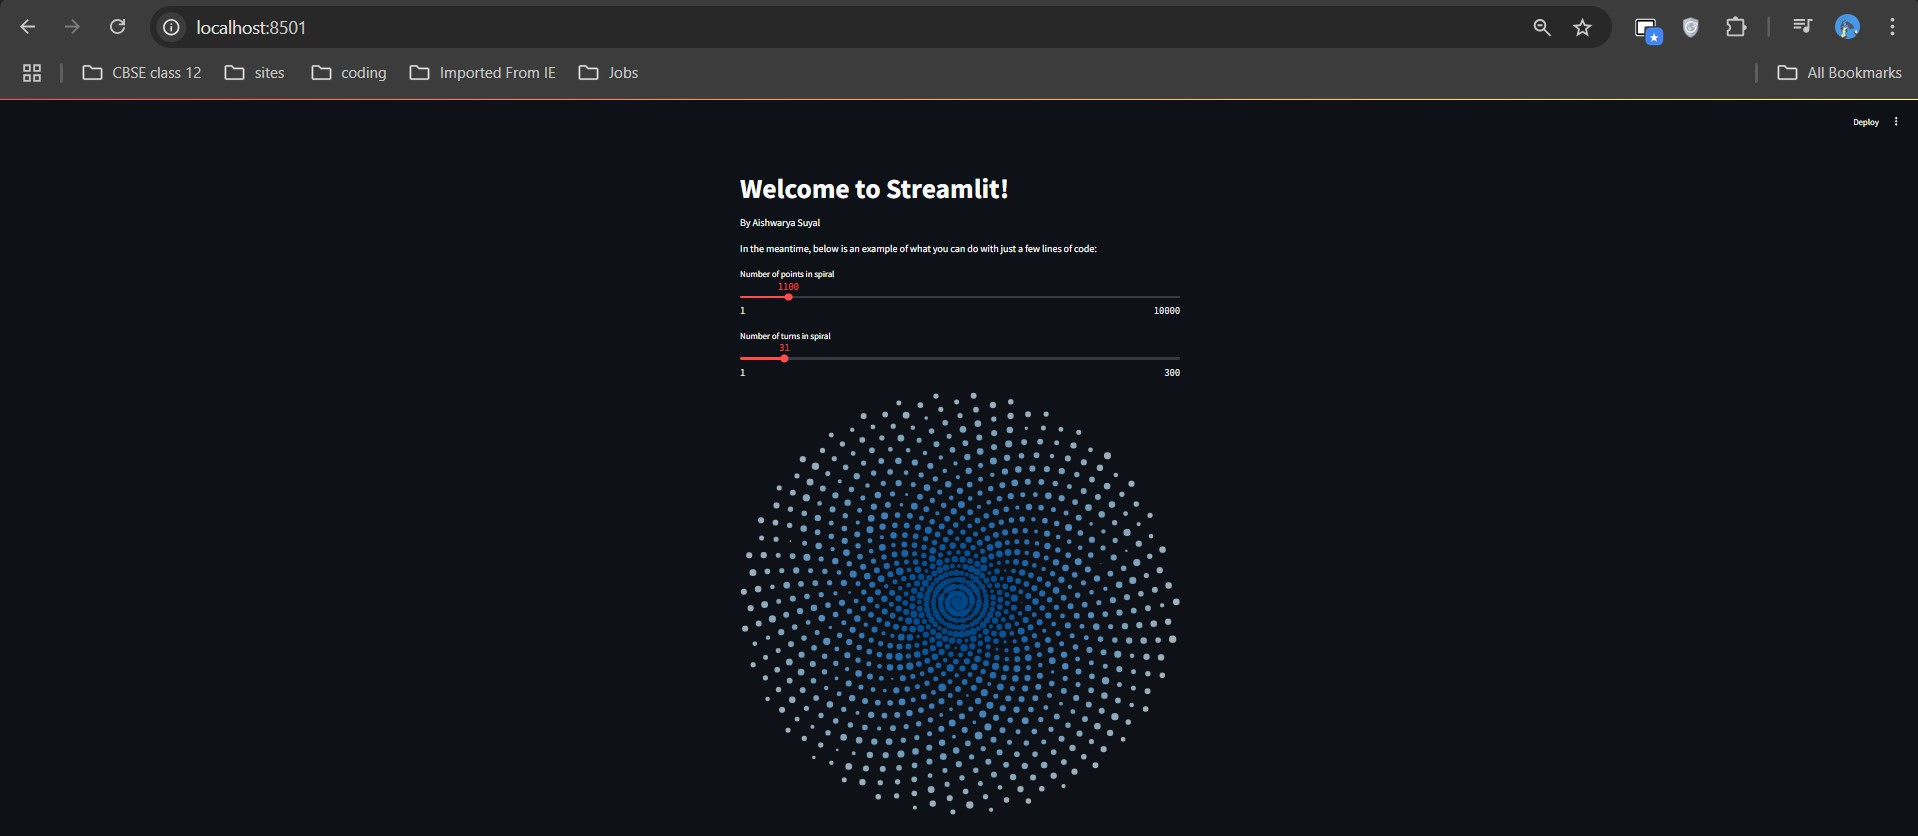
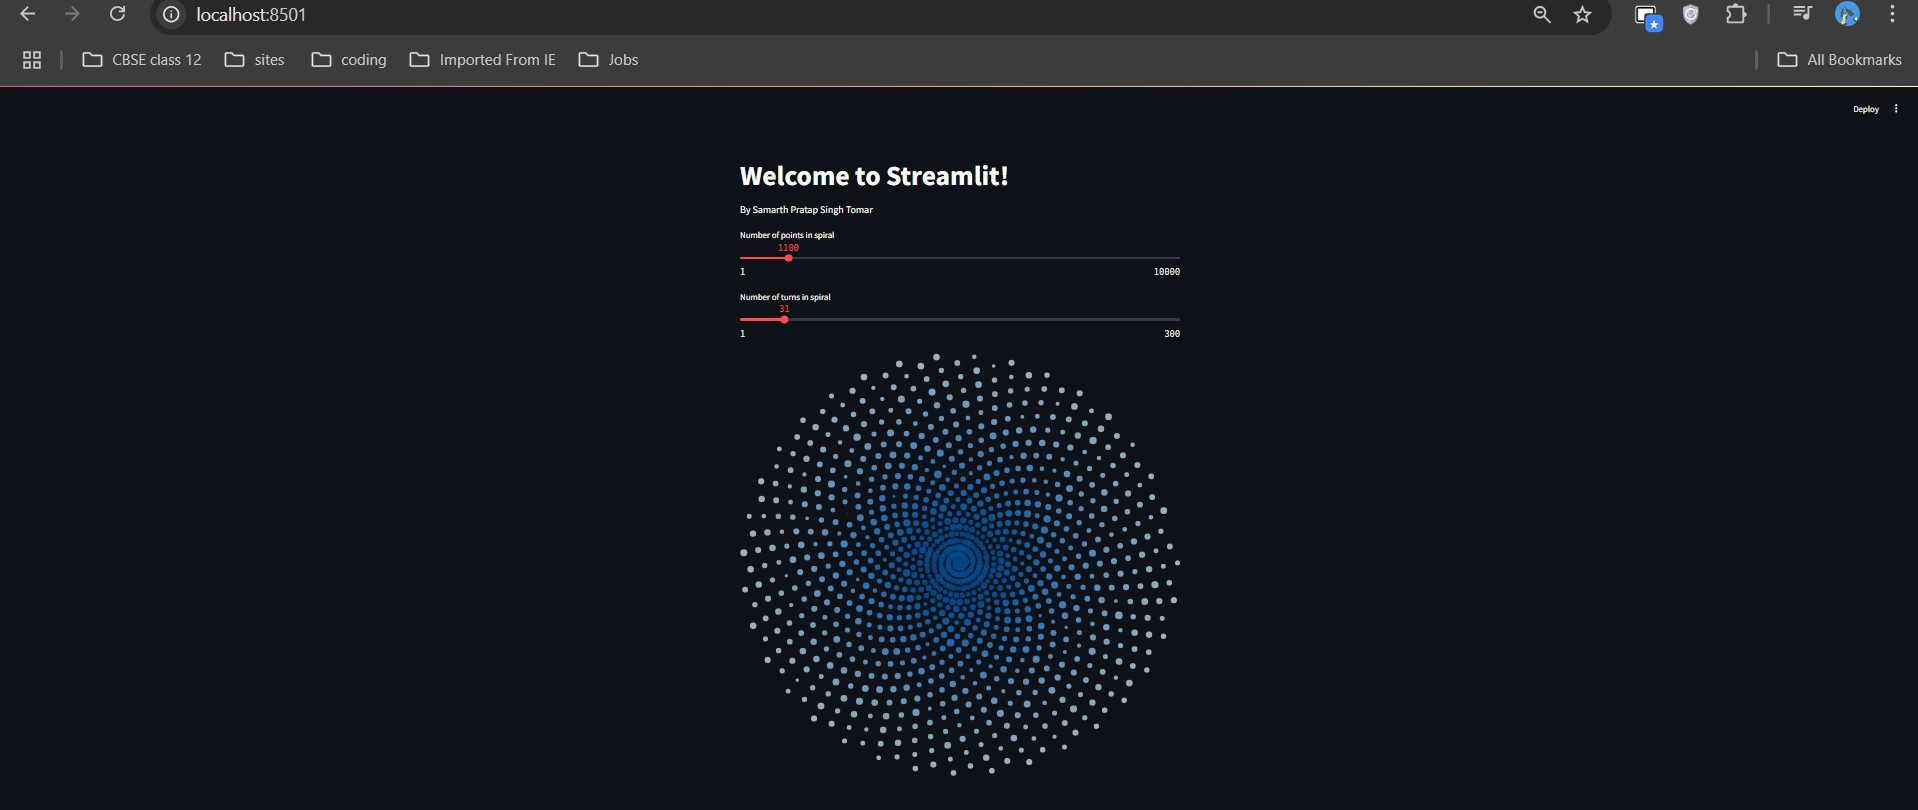
Files Added

Changed region(s): [[0.3691, 0.1852, 0.6152, 0.9568], [0.0, 0.0, 1.0, 0.1543]]

diff --git a/exp1/app.py b/exp1/app.py
@@ -1,2 +1,2 @@
 print("Hello World")
-print("~by Aishwarya Suyal")
+print("~By Samarth Pratap Singh Tomar") 
